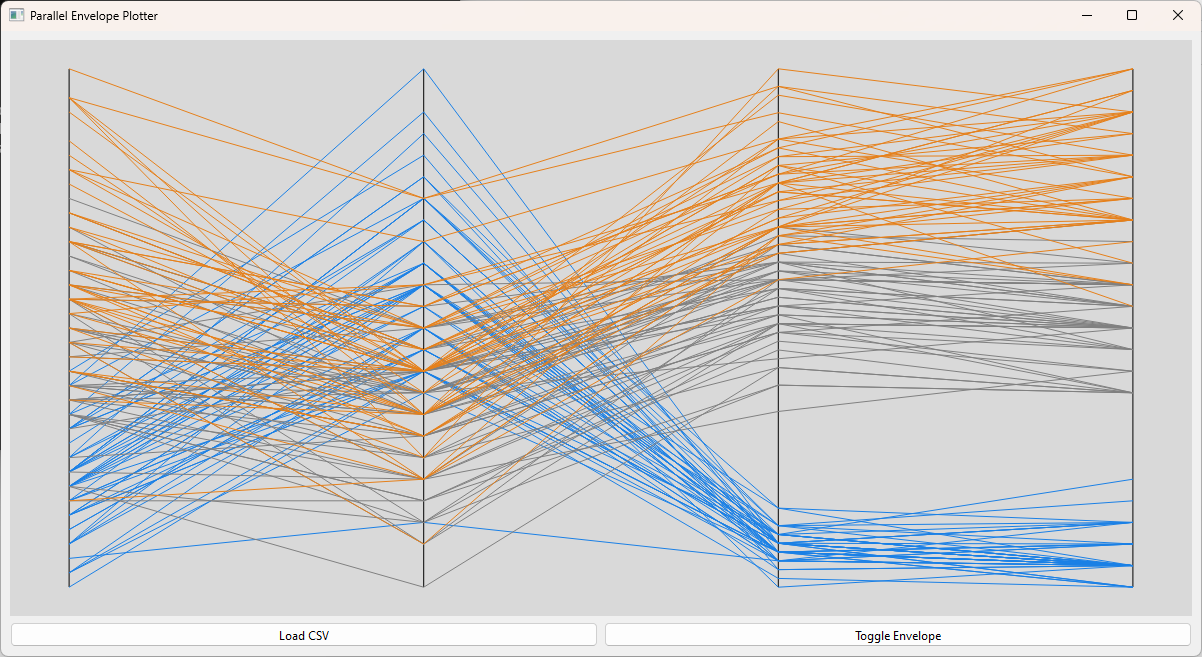
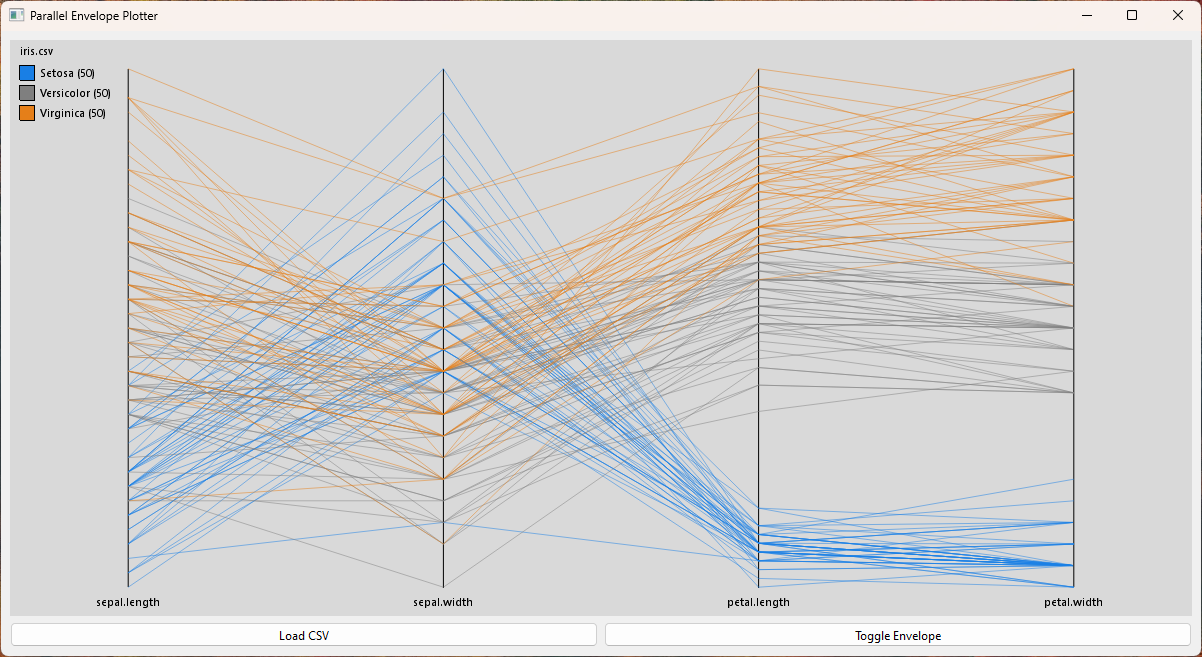
Legend, att. labels, opacity brushing, aliasing

diff --git a/main.py b/main.py
@@ -1,7 +1,9 @@
 import sys
 from PyQt6.QtWidgets import QApplication, QMainWindow, QPushButton, QVBoxLayout, QWidget, QHBoxLayout, QFileDialog
 from PyQt6.QtOpenGLWidgets import QOpenGLWidget
-from PyQt6.QtCore import Qt
+from PyQt6.QtCore import Qt, QPoint
+from PyQt6.QtGui import QPainter, QColor
+
 from OpenGL.GL import *
 
 import numpy as np
@@ -20,6 +22,19 @@ class OpenGLPlot(QOpenGLWidget):
         dataset = pd.read_csv(file_name)
         self.classes = dataset['class']
         self.data = dataset.drop(columns=['class'])
+        
+        self.dataset_name = file_name.split("/")[-1]  # Store just the filename
+        
+        # Combine the data and classes into a single DataFrame
+        combined = pd.concat([self.data, self.classes], axis=1)
+        
+        # Sort the combined DataFrame by the class labels
+        combined = combined.sort_values(by='class')
+        
+        # Split the sorted DataFrame back into data and classes
+        self.classes = combined['class']
+        self.data = combined.drop(columns=['class'])
+        
         self.unique_classes = self.classes.unique()
 
         # Generate unique colors for each class
@@ -53,7 +68,7 @@ class OpenGLPlot(QOpenGLWidget):
         num_axes = self.data.shape[1]
 
         # Define margins
-        x_margin = 0.1
+        x_margin = 0.2
         y_margin = 0.1
         x_min = -1 + x_margin
         x_max = 1 - x_margin
@@ -71,12 +86,71 @@ class OpenGLPlot(QOpenGLWidget):
             glVertex2f(x_min + i * axis_gap, y_max)
             glEnd()
 
-        # Draw data
+        # Start QPainter
+        painter = QPainter(self)
+        painter.setRenderHint(QPainter.RenderHint.TextAntialiasing, True)
+        painter.setPen(Qt.GlobalColor.black)
+        font = painter.font()
+        font.setPointSize(font.pointSize() - 1)  # Decrease font size by 1
+        painter.setFont(font)
+
+        # Positioning details
+        start_x = 10
+        start_y = 25
+        rect_size = 15
+        gap = 5
+
+        painter.drawText(start_x, start_y - 10, self.dataset_name)
+        for idx, class_label in enumerate(self.unique_classes):
+            r, g, b = [int(c * 255) for c in self.get_color_for_class(class_label)]
+            painter.setBrush(QColor(r, g, b))
+            
+            rect_x = int(start_x)
+            rect_y = int(start_y + (rect_size + gap) * idx)
+            painter.drawRect(rect_x, rect_y, rect_size, rect_size)
+
+            label = f"{class_label} ({(self.classes == class_label).sum()})"
+            text_x = int(start_x + rect_size + gap)
+            
+            text_rect = painter.fontMetrics().boundingRect(label)
+            
+            # Adjust the vertical positioning to be centered with the colored box
+            text_y = rect_y + (rect_size - text_rect.height()) // 2 + text_rect.height() - 3
+            
+            painter.drawText(text_x, text_y, label)
+        
+        # Draw axes and attribute names
+        attribute_names = self.data.columns.tolist()  # Get attribute names from the DataFrame
+        for i, attribute_name in enumerate(attribute_names):
+            glBegin(GL_LINES)
+            glVertex2f(x_min + i * axis_gap, y_min)
+            glVertex2f(x_min + i * axis_gap, y_max)
+            glEnd()
+            
+            # Calculate the width of the text string
+            text_width = painter.fontMetrics().horizontalAdvance(attribute_name)
+            
+            # Render attribute name below the axis using QPainter
+            text_x = int((x_min + i * axis_gap) * self.width() * 0.5 + self.width() * 0.5 - text_width / 2)
+            text_y = int(self.height() - 10)
+            painter.drawText(text_x, text_y, attribute_name)
+
+        # End QPainter
+        painter.end()
+
+        # Reset OpenGL states for drawing lines
+        glEnable(GL_BLEND)
+        glBlendFunc(GL_SRC_ALPHA, GL_ONE_MINUS_SRC_ALPHA)
+        glEnable(GL_LINE_SMOOTH)
+        glHint(GL_LINE_SMOOTH_HINT, GL_NICEST)
+        
+        glLineWidth(0.5)  # Set line width
         for idx, row in self.data.iterrows():
-            glColor3f(*self.get_color_for_class(self.classes[idx]))
+            r, g, b = self.get_color_for_class(self.classes[idx])
+            glColor4f(r, g, b, 0.5)
             glBegin(GL_LINE_STRIP)
             for i, value in enumerate(row):
-                glVertex2f(x_min + i * axis_gap, y_min + (y_max - y_min) * value)  # Adjusted plotting range
+                glVertex2f(x_min + i * axis_gap, y_min + (y_max - y_min) * value)
             glEnd()
 
         glEnable(GL_DEPTH_TEST)
@@ -122,6 +196,11 @@ class MainWindow(QMainWindow):
         central_widget = QWidget(self)
         central_widget.setLayout(layout)
         self.setCentralWidget(central_widget)
+
+    def keyPressEvent(self, event):
+        # Check for Escape key or Ctrl+W
+        if event.key() == Qt.Key.Key_Escape or (event.key() == Qt.Key.Key_W and event.modifiers() == Qt.KeyboardModifier.ControlModifier):
+            self.close()
 
     def center_on_screen(self):
         """Center the window on the screen."""
